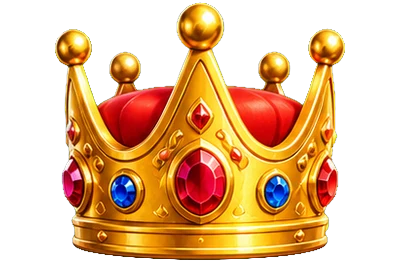
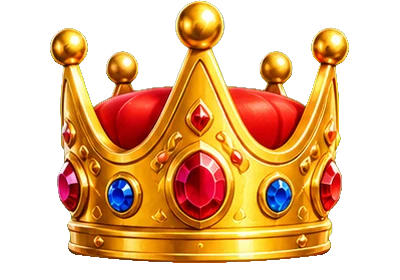
Hüte: hinteren Innenrand unten wegschneiden
Claude-Session: https://claude.ai/code/session_01XuEgEKXH5CVDx1qfGUkAmV

diff --git a/public/sw.js b/public/sw.js
@@ -1,7 +1,7 @@
 'use strict';
 /* UNKNOWN – Service Worker: App-Hülle und Bilder offline zwischenspeichern.
    Spielstand läuft ausschließlich über WebSocket und wird nie gecacht. */
-const VERSION = 'unknown-v20';
+const VERSION = 'unknown-v21';
 const SHELL = ['/', '/css/style.css', '/js/app.js', '/data/sets.json', '/data/avatars.json', '/manifest.webmanifest', '/assets/logo.png'];
 
 self.addEventListener('install', (e) => {

diff --git a/tools/process_hats.py b/tools/process_hats.py
@@ -35,6 +35,17 @@ for i,id_ in enumerate(ORDER):
     keep = np.asarray(full).copy(); keep[...,3] = np.where(m, keep[...,3], 0)
     out[id_] = Image.fromarray(keep,'RGBA').crop(bb)
 out['liga_platin'] = tint(out['liga_silber'], -24, 1.6)   # fehlt im Raster: Silberkrone türkis eingefärbt
+# Unteren (hinteren) Innenrand wegschneiden, damit der Hut auf dem Kopf zu sitzen scheint: Anteil der Hutbreite/-höhe, Rand als Lächeln
+CUT = {'koch': 0.10, 'fez': 0.06, 'muetze': 0.04, 'partyhut': 0.05, 'zauberer': 0.05, 'basecap': 0.0, 'cowboy': 0.0, 'pirat': 0.0, 'zylinder': 0.0, 'propeller': 0.04, 'wikinger': 0.05,
+       'krone': 0.07, 'liga_silber': 0.07, 'liga_gold': 0.07, 'liga_platin': 0.07, 'liga_diamant': 0.07, 'liga_meister': 0.07}
+def smile_cut(img, frac):
+    if frac <= 0: return img
+    a = np.asarray(img).copy(); H, W2 = a.shape[:2]
+    ys = np.arange(H)[:, None]; xs = np.linspace(-1, 1, W2)[None, :]
+    edge = H * (1 - frac * (0.35 + 0.65 * xs ** 2))
+    a[..., 3] = np.where(ys > edge, 0, a[..., 3])
+    out = Image.fromarray(a, 'RGBA'); return out.crop(out.split()[3].getbbox())
+for k in out: out[k] = smile_cut(out[k], CUT.get(k, 0))
 CW,CH = 400,280
 for id_,hat in out.items():
     s = min(CW/hat.width, CH*0.94/hat.height); hat = hat.resize((max(1,int(hat.width*s)),max(1,int(hat.height*s))), Image.LANCZOS)
